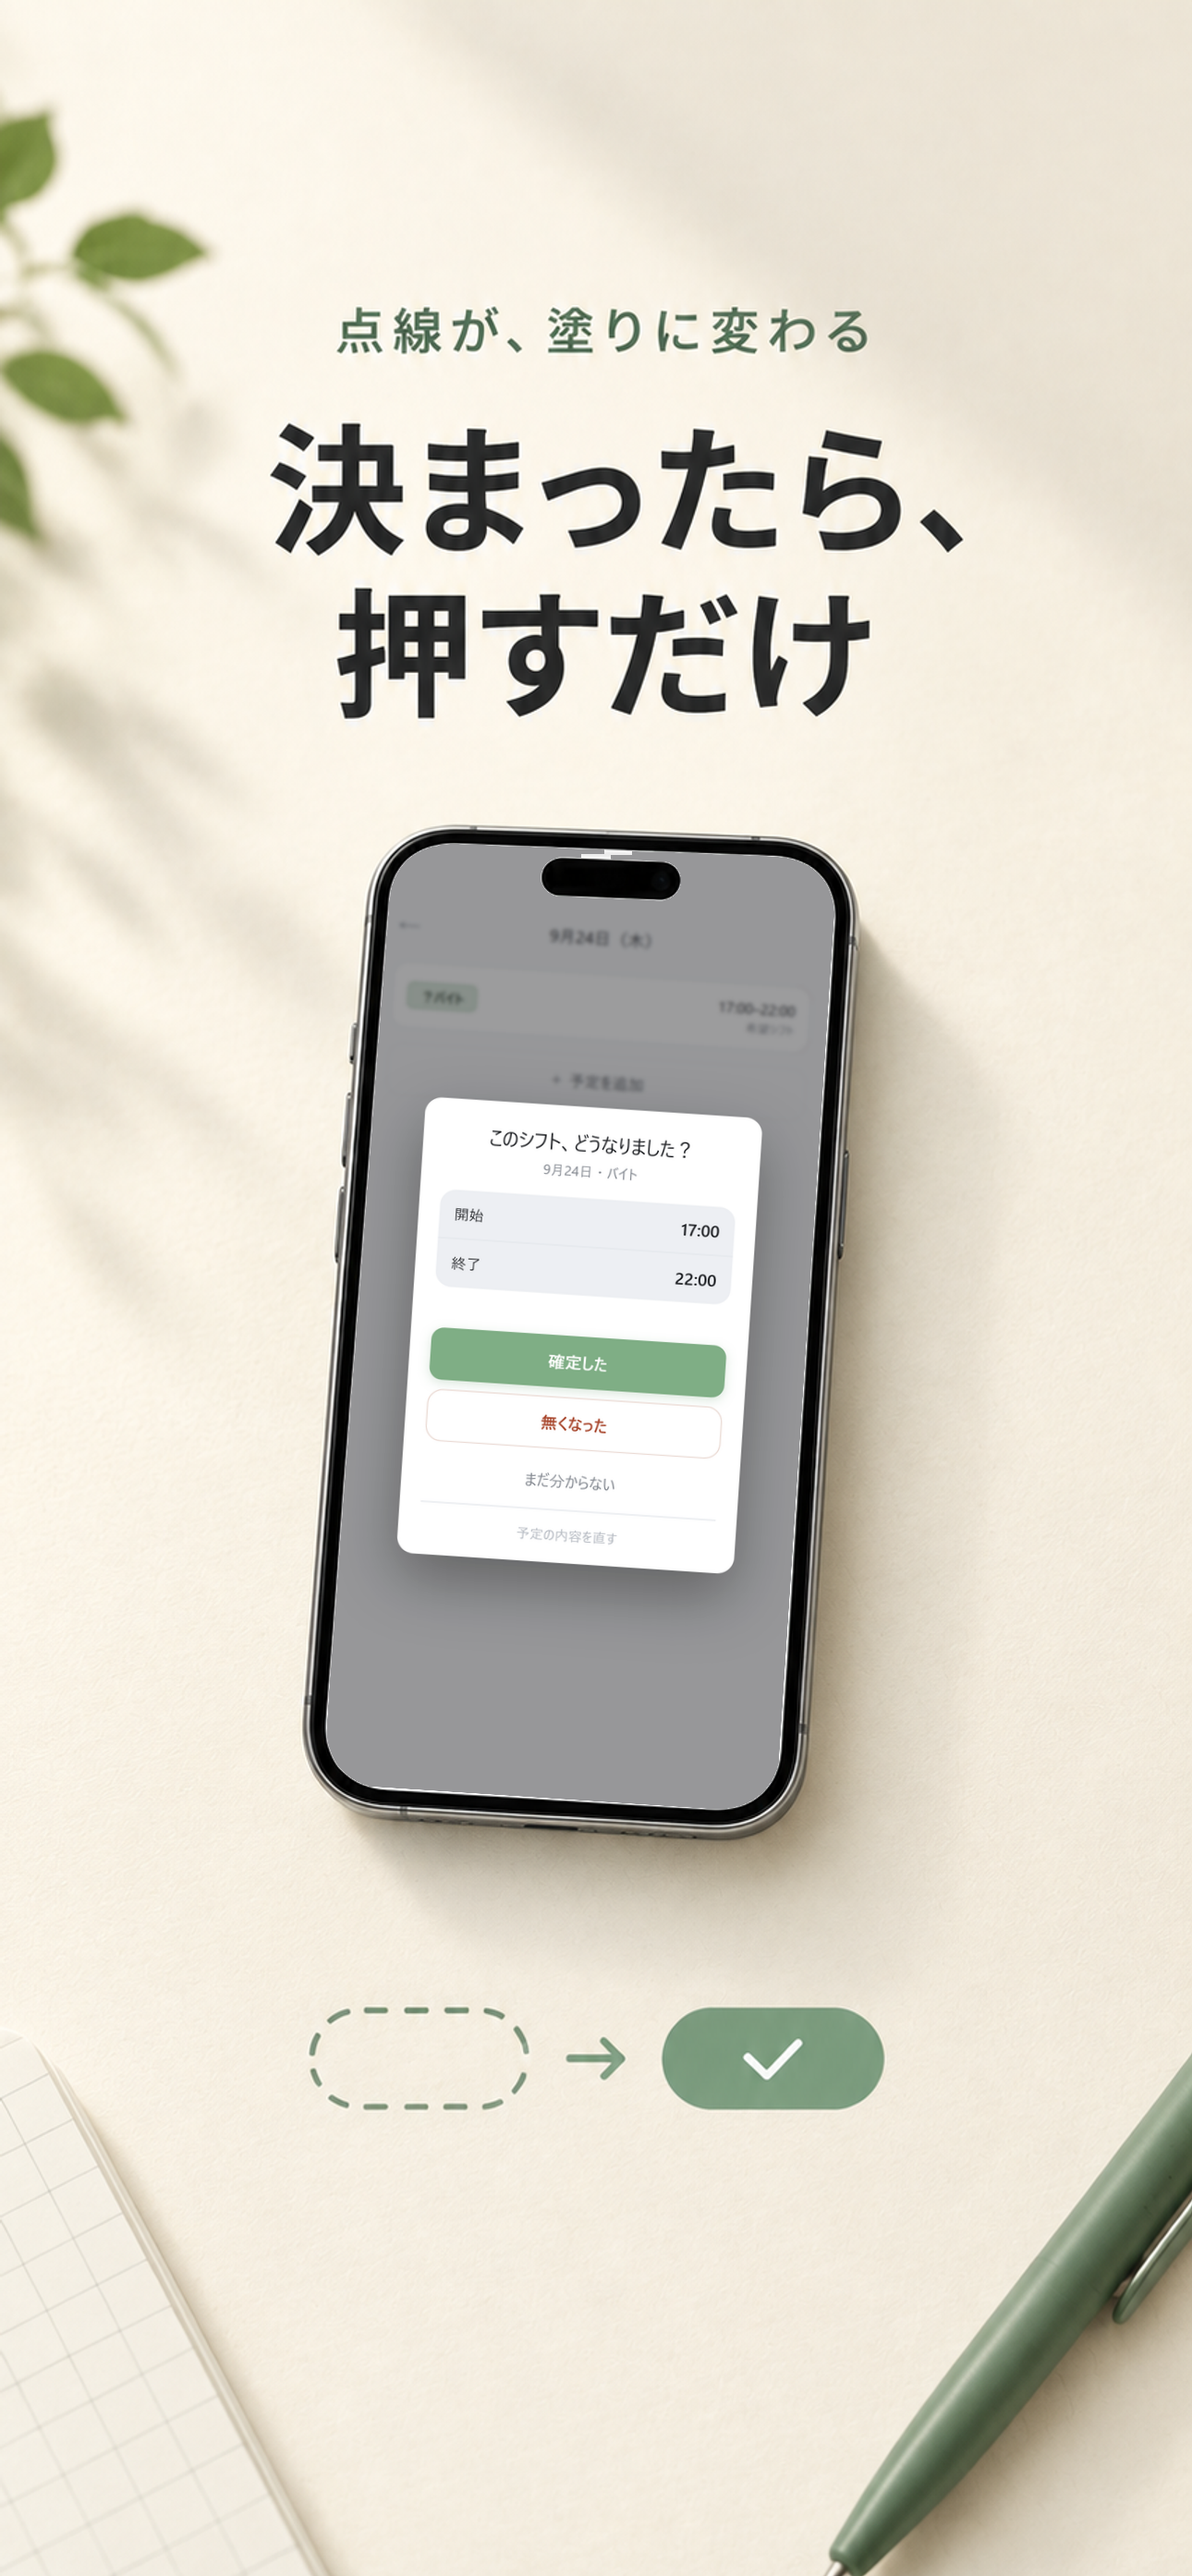
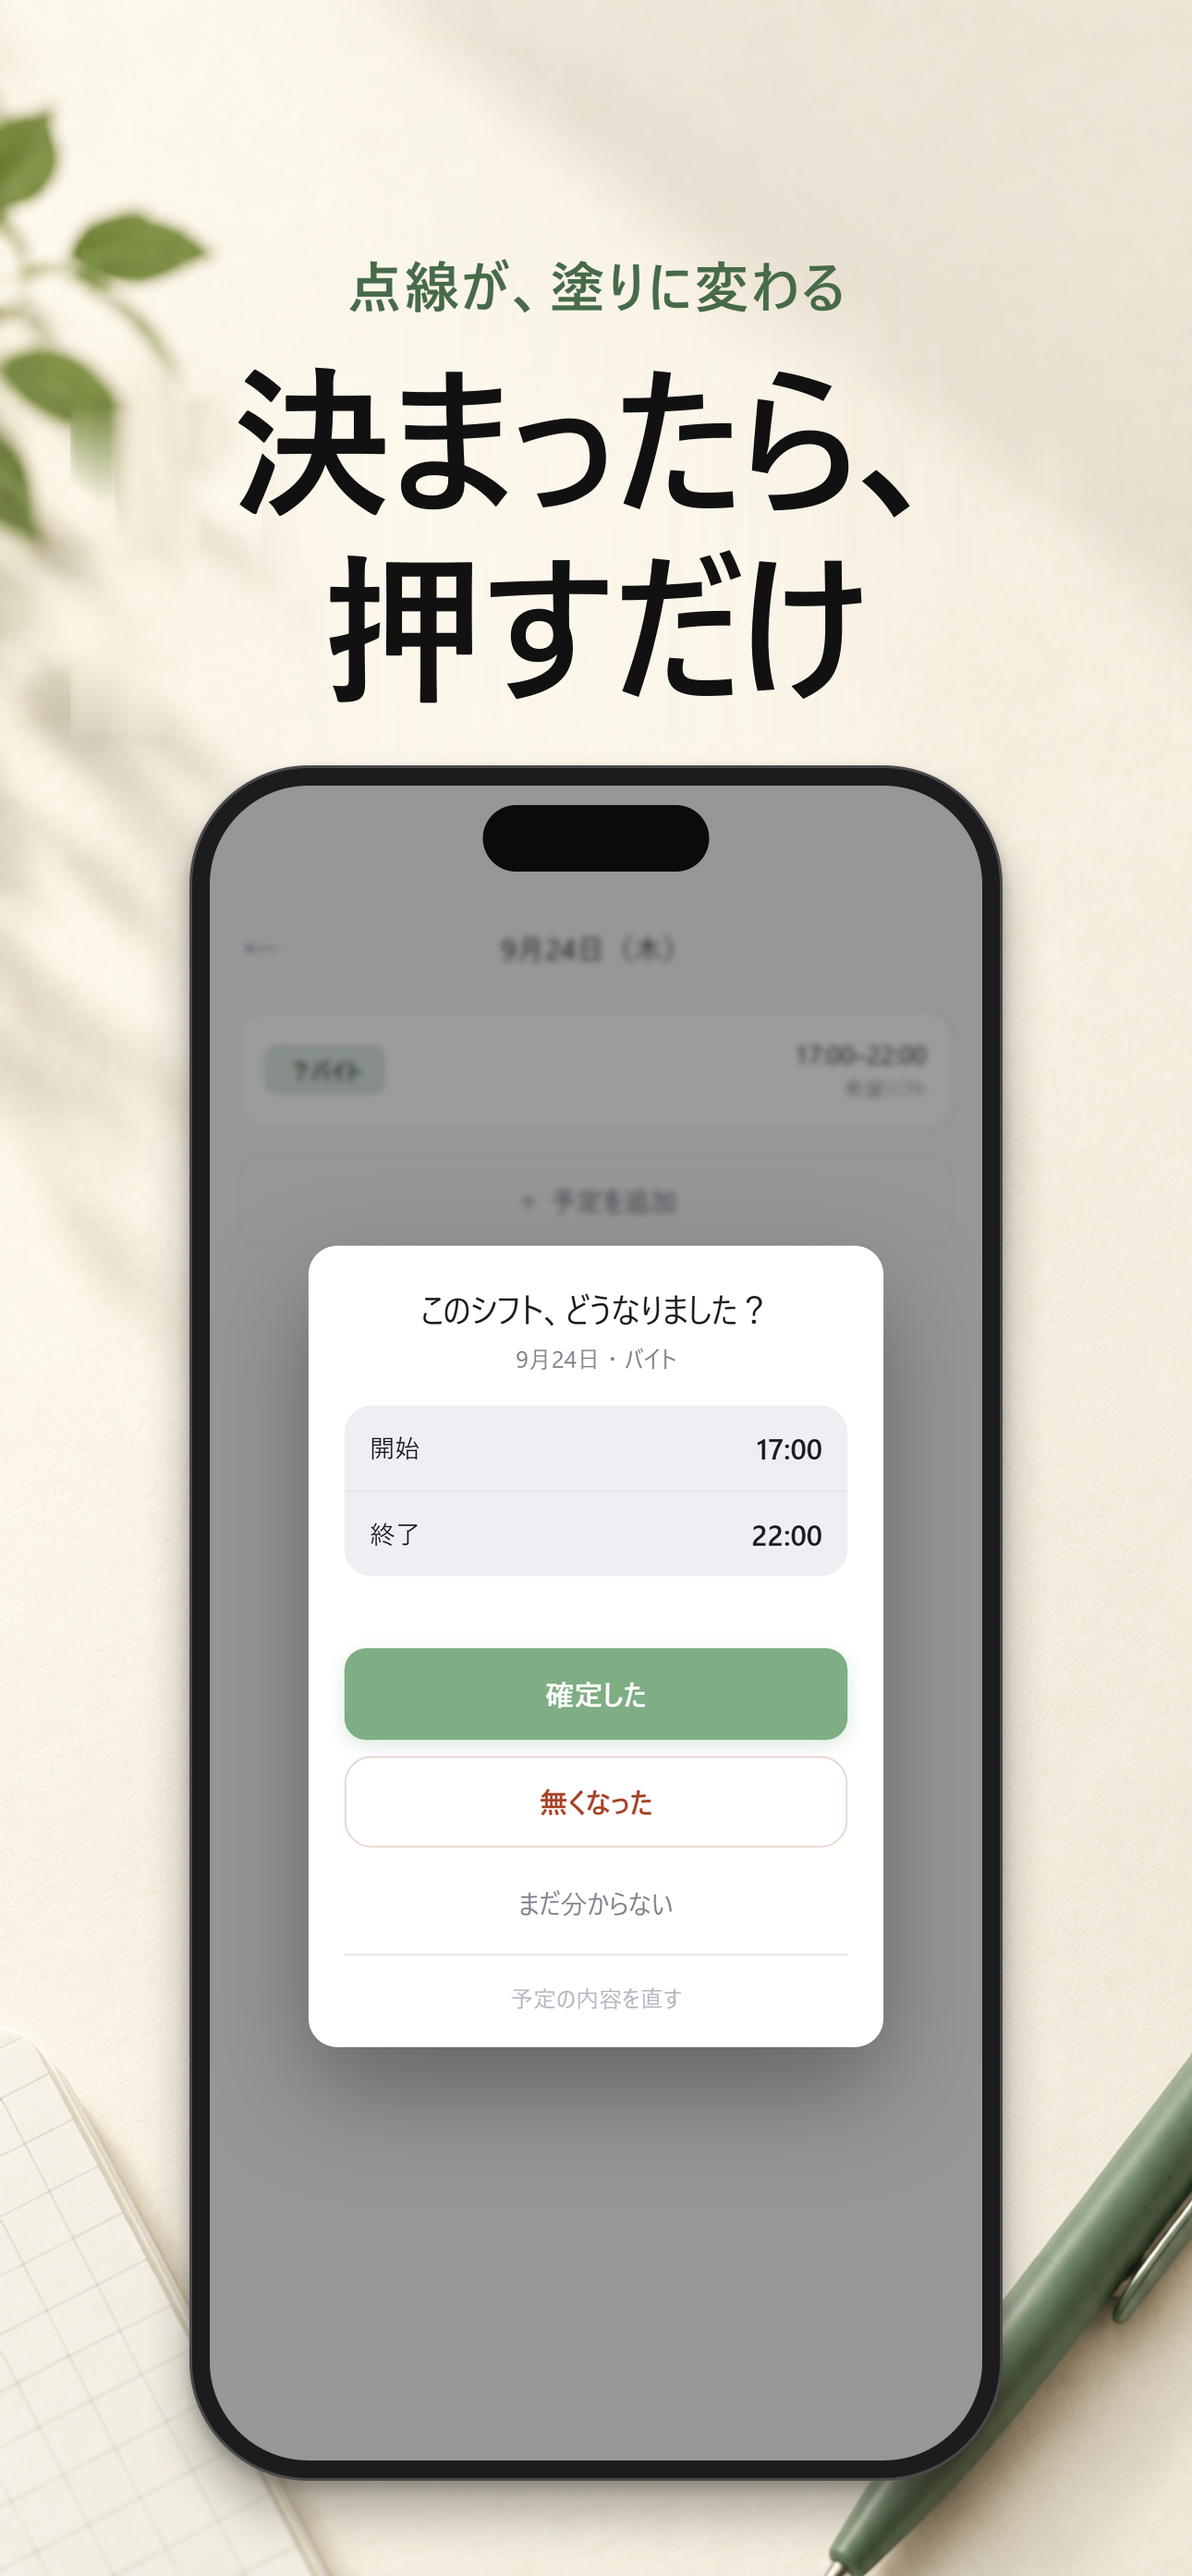
sukuji の 5 枚：スマホを幅 68% で自前で描き、見出しを幅いっぱいに描き直す
ChatGPT のスマホは幅の 4 割で小さすぎた。絵は机の下地としてだけ使い、
見出し・小見出し・スマホ（縁・アイランド・影）はこちらで描く。
見出しの大きさは幅に合わせて自動（最大 175px）。

diff --git a/store-assets/sukuji/prompts.md b/store-assets/sukuji/prompts.md
@@ -1,5 +1,10 @@
 # ChatGPT の画像生成で、sukuji 風の紹介画像を作るためのプロンプト
 
+> **2026-09-21**：いまは ChatGPT の絵は「机の下地」としてだけ使っている。見出し・小見出し・スマホは
+> `app/tools/sukuji-fill.mjs` が消して描き直す（ChatGPT のスマホは幅の 4 割で小さすぎた）。
+> なので下のプロンプトで描き直すときも、Headline の文言やスマホの大きさは結果に影響しない。
+> 大事なのは机・小物・葉の雰囲気だけ。
+
 2026-09-19。サイト（sukuji.com）用。**App Store には出さない**（描いた UI は審査で弾かれる）。
 
 ## 進め方（ここを外すと、画面が描き変えられる）
